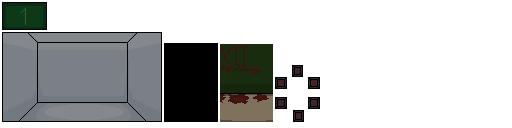
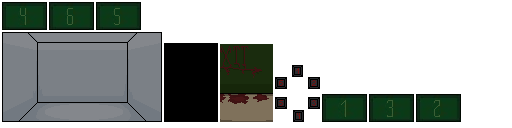
buttons in elevator worked and close door method

Changed region(s): [[0.625, 0.7188, 0.9062, 0.9688], [0.0938, 0.0, 0.2812, 0.25], [0.0312, 0.0625, 0.0625, 0.125]]

diff --git a/core/src/main/java/com/elevator_project/elevator/Elevator.java b/core/src/main/java/com/elevator_project/elevator/Elevator.java
@@ -1,10 +1,14 @@
 package com.elevator_project.elevator;
 
+import com.badlogic.gdx.graphics.g2d.Animation;
 import com.badlogic.gdx.graphics.g2d.TextureAtlas;
+import com.badlogic.gdx.graphics.g2d.TextureRegion;
 import com.badlogic.gdx.scenes.scene2d.Group;
 import com.badlogic.gdx.scenes.scene2d.InputEvent;
 import com.badlogic.gdx.scenes.scene2d.ui.Image;
 import com.badlogic.gdx.scenes.scene2d.utils.ClickListener;
+import com.badlogic.gdx.scenes.scene2d.utils.SpriteDrawable;
+import com.badlogic.gdx.scenes.scene2d.utils.TextureRegionDrawable;
 import com.elevator_project.game.App;
 import com.elevator_project.game.GameManager;
 import com.elevator_project.game.GroupElements;
@@ -19,6 +23,10 @@ public class Elevator implements GroupElements {
     private final TextureAtlas atlas;
     private final Group mainGroup;
     private final List<Image> elements;
+    private Animation<TextureRegion> displayAnimation;
+    private float stateTime;
+    private Image display;
+    private Image back;
 
     public Elevator () {
         this.w = App.getDimensions()[0];
@@ -47,7 +55,7 @@ public class Elevator implements GroupElements {
         final float BACK_RESIZE_FACTOR = 240f;
         final float BACK_VERT_FACTOR = 4.65f;
         final float BACK_HORIZ_FACTOR = 2.6f;
-        Image back = new Image(atlas.createSprite("Back", 1));
+        back = new Image(atlas.createSprite("Back", 1));
         ImageProcessing.process(back, BACK_RESIZE_FACTOR, BACK_HORIZ_FACTOR, BACK_VERT_FACTOR);
         return back;
     }
@@ -71,9 +79,43 @@ public class Elevator implements GroupElements {
         final float DISPLAY_RESIZE_FACTOR = 700f;
         final float DISPLAY_VERT_FACTOR = 1.8f;
         final float DISPLAY_HORIZ_FACTOR = 1.5f;
-        Image display = new Image(atlas.createSprite("Display", 1));
+
+        displayAnimation = new Animation<>(0.6f, atlas.findRegions("Display"));
+        display = new Image(new TextureRegionDrawable(displayAnimation.getKeyFrame(0)));
         ImageProcessing.process(display, DISPLAY_RESIZE_FACTOR, DISPLAY_HORIZ_FACTOR, DISPLAY_VERT_FACTOR);
         return display;
+    }
+
+    public void update (float delta) {
+        if (GameManager.getElevatorManager().getFloorIndex() != displayAnimation.getKeyFrameIndex(stateTime) + 1){
+            back.setDrawable(new SpriteDrawable(atlas.createSprite("Back", 0)));
+            stateTime += delta;
+            TextureRegion frame = displayAnimation.getKeyFrame(stateTime, false);
+            display.setDrawable(new TextureRegionDrawable(frame));
+        } else {
+            setFloorBack();
+            GameManager.getElevatorManager().setMoving(false);
+        }
+    }
+
+    public void move (int start, int end) {
+        if (start > end) {
+            displayAnimation.setPlayMode(Animation.PlayMode.REVERSED);
+            stateTime = 0 + 0.6f * (6 - start);
+        } else {
+            displayAnimation.setPlayMode(Animation.PlayMode.NORMAL);
+            stateTime = 0 + 0.6f * (start - 1);
+        }
+        System.out.println(start);
+        TextureRegion frame = displayAnimation.getKeyFrame(stateTime, false);
+        display.setDrawable(new TextureRegionDrawable(frame));
+        GameManager.getDoor().close();
+
+    }
+
+    private void setFloorBack () {
+        back.setDrawable(new SpriteDrawable(atlas.createSprite("Back", 1)));
+        GameManager.getDoor().setAvailable(true);
     }
 
     public Group initGroup() {

diff --git a/core/src/main/java/com/elevator_project/independent_elements/Door.java b/core/src/main/java/com/elevator_project/independent_elements/Door.java
@@ -22,6 +22,7 @@ public class Door {
     private static boolean animation;
     private static boolean available;
     private static boolean open;
+    private static boolean closingDoors;
 
     public Door () {
         this.h = App.getDimensions()[1];
@@ -29,6 +30,7 @@ public class Door {
         initDoor();
         available = true;
         open = false;
+        closingDoors = true;
     }
 
     private void initDoor () {
@@ -37,7 +39,6 @@ public class Door {
         final float DOOR_VERT_FACTOR_IN_ROOM = 3.15f;
         final float DOOR_HORIZ_FACTOR = 2.6f;
 
-        door = new Image();
         doorAnimation = new Animation<>(0.3f, atlas.findRegions("Door"));
         door = new Image(new TextureRegionDrawable(doorAnimation.getKeyFrame(0)));
         ImageProcessing.process(door, DOOR_RESIZE_FACTOR, DOOR_HORIZ_FACTOR, DOOR_VERT_FACTOR_IN_ELEVATOR);
@@ -54,11 +55,13 @@ public class Door {
                                 GameManager.getFloor().render();
                                 available = false;
                                 GameManager.setElevator(false);
+                                App.getSoundManager().playElevatorDoors();
                             } else {
                                 dispose();
                                 GameManager.getFloor().dispose();
                                 GameManager.getElevatorManager().render();
                                 GameManager.setElevator(true);
+                                close();
                             }
                             TextureRegion frame = doorAnimation.getKeyFrame(0, false);
                             door.setDrawable(new TextureRegionDrawable(frame));
@@ -74,10 +77,25 @@ public class Door {
                             stateTime = 0;
                             animation = true;
                             available = false;
+                            closingDoors = false;
+                            doorAnimation.setPlayMode(Animation.PlayMode.NORMAL);
                         }
                 }
             }
         });
+    }
+
+    public void close () {
+        if (open) {
+            App.getSoundManager().playElevatorDoors();
+            doorAnimation.setPlayMode(Animation.PlayMode.REVERSED);
+            stateTime = 0;
+            available = false;
+            animation = true;
+            closingDoors = true;
+        } else {
+            GameManager.getElevatorManager().setMoving(true);
+        }
     }
 
     public void update(float delta) {
@@ -87,8 +105,13 @@ public class Door {
             door.setDrawable(new TextureRegionDrawable(frame));
             if (doorAnimation.isAnimationFinished(stateTime)) {
                 animation = false;
-                open = true;
-                available = true;
+                if (closingDoors) {
+                    GameManager.getElevatorManager().setMoving(true);
+                    open = false;
+                } else {
+                    open = true;
+                    available = true;
+                }
             }
         }
     }

diff --git a/core/src/main/java/com/elevator_project/elevator/ElevatorManager.java b/core/src/main/java/com/elevator_project/elevator/ElevatorManager.java
@@ -4,6 +4,7 @@ import com.badlogic.gdx.scenes.scene2d.Group;
 import com.elevator_project.game.App;
 import com.elevator_project.game.GameManager;
 import lombok.Getter;
+import lombok.Setter;
 
 import java.util.ArrayList;
 import java.util.List;
@@ -15,7 +16,11 @@ public class ElevatorManager {
     @Getter
     private final Buttons buttons;
     @Getter
+    @Setter
     private int floorIndex;
+    @Getter
+    @Setter
+    private boolean moving;
 
     public ElevatorManager() {
         groups = new ArrayList<>();
@@ -23,6 +28,7 @@ public class ElevatorManager {
         elevator = new Elevator();
         floorIndex = 1;
         buttons.hide();
+        moving = false;
     }
 
     public void forward() {
@@ -37,6 +43,10 @@ public class ElevatorManager {
         elevator.show();
         GameManager.getDoor().show();
         GameManager.getDownArrow().hide();
+    }
+
+    public void moveElevator (float delta) {
+        elevator.update(delta);
     }
 
     public void initGroups () {

diff --git a/core/src/main/java/com/elevator_project/first_floor/FirstFloorFourthSide.java b/core/src/main/java/com/elevator_project/first_floor/FirstFloorFourthSide.java
@@ -20,11 +20,13 @@ public class FirstFloorFourthSide extends RoomPart {
     private int windowIndex;
     private final List<Sprite> windowSprites;
     private final List<Image> elements;
+    private boolean screamer;
 
     public FirstFloorFourthSide() {
         atlas = GameManager.getAtlasses().getFirstFloorAtlas();
         windowSprites = new ArrayList<>();
         elements = new ArrayList<>();
+        screamer = false;
         initElements();
     }
 
@@ -98,6 +100,10 @@ public class FirstFloorFourthSide extends RoomPart {
     public void changeWindow() {
         if (GameManager.getFirstFloor().isBoxQuestSolved()) {
             window.setDrawable(new SpriteDrawable(windowSprites.get(2)));
+            if (!screamer) {
+                App.getSoundManager().playWindow();
+                screamer = true;
+            }
         } else {
             window.setDrawable(new SpriteDrawable(windowSprites.get(windowIndex)));
             windowIndex = windowIndex == 0 ? 1 : 0;

diff --git a/core/src/main/java/com/elevator_project/elevator/Buttons.java b/core/src/main/java/com/elevator_project/elevator/Buttons.java
@@ -77,6 +77,20 @@ public class Buttons implements GroupElements {
         ImageProcessing.process(buttonSix, BUTTON_RESIZE_FACTOR, FIRST_HORIZ_ROW_FACTOR, SECOND_VERT_ROW_FACTOR);
         buttons.add(buttonSix);
 
+        for (Image button : buttons) {
+            button.addListener(new ClickListener() {
+                @Override
+                public void clicked (InputEvent event, float x, float y) {
+                    GameManager.getElevatorManager().getElevator().move(
+                        GameManager.getElevatorManager().getFloorIndex(),
+                        buttons.indexOf(button) + 1);
+                    GameManager.getElevatorManager().setFloorIndex(buttons.indexOf(button) + 1);
+                    GameManager.getElevatorManager().back();
+                }
+            });
+
+        }
+
         return buttons;
     }
 

diff --git a/core/src/main/java/com/elevator_project/first_floor/BoxQuest.java b/core/src/main/java/com/elevator_project/first_floor/BoxQuest.java
@@ -26,7 +26,6 @@ public class BoxQuest extends RoomPart {
     private Image box;
     @Getter
     private boolean open;
-    private boolean sound;
 
     public BoxQuest () {
         atlas = GameManager.getAtlasses().getFirstFloorAtlas();
@@ -35,7 +34,6 @@ public class BoxQuest extends RoomPart {
         buttons = new LinkedHashMap<>();
         combination = new Integer[] {2, 5, 1, 4};
         open = false;
-        sound = false;
         initElements();
     }
 

diff --git a/core/src/main/java/com/elevator_project/game/App.java b/core/src/main/java/com/elevator_project/game/App.java
@@ -52,6 +52,9 @@ public class App extends ApplicationAdapter {
         if (GameManager.getDoor().isAnimation()){
             GameManager.getDoor().update(delta);
         }
+        if (GameManager.getElevatorManager().isMoving()) {
+            GameManager.getElevatorManager().moveElevator(delta);
+        }
         stage.act();
         stage.draw();
     }
